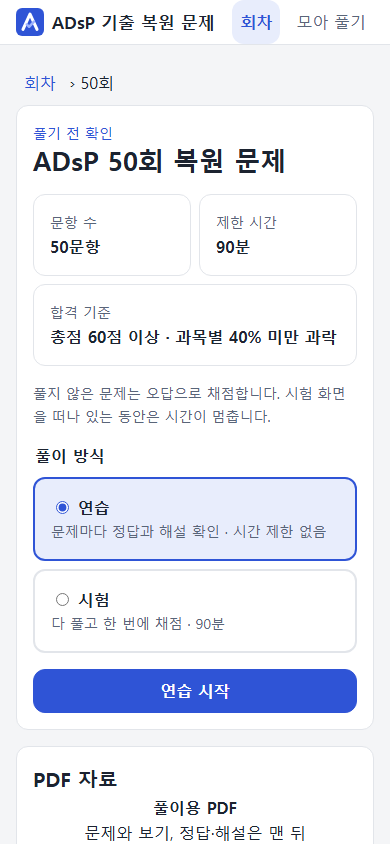
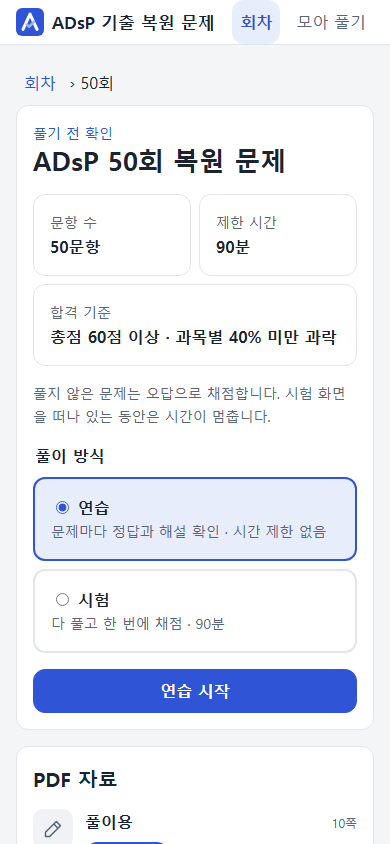
PDF 자료 화면 다시 짜기 (#26)
- 과목별 공부 자료 / 회차별 문제지 탭과 카드형 배치
- 종류별 아이콘, 눈에 띄는 보기 단추, 글자 링크 내려받기, 쪽수 표시
- 쉬운 설명을 핵심 요약으로
- README와 화면 이미지 갱신

Changed region(s): [[0.2154, 0.9242, 0.8, 1.0], [0.0923, 0.955, 0.1538, 1.0], [0.8615, 0.955, 0.9231, 0.9858]]

diff --git a/src/pages/DownloadsPage.tsx b/src/pages/DownloadsPage.tsx
@@ -1,20 +1,51 @@
+import { useSearchParams } from 'react-router';
+import type { CSSProperties } from 'react';
+import type { SubjectDownload } from '../data/loadDownloads';
 import { useDownloads } from '../components/DownloadsContext';
-import { DownloadLink, downloadTypes, downloadLabels, downloadDescriptions, PdfActions, subjectTypes, subjectLabels, subjectDescriptions } from '../components/DownloadLinks';
+import { DownloadLink, downloadTypes, downloadLabels, PdfItem, subjectTypes, subjectLabels } from '../components/DownloadLinks';
 import { LoadingState, type PageProps } from '../components/LoadingState';
+
+function SubjectCards({ subjects }: { subjects: SubjectDownload[] }) {
+  const whole = subjects.filter(s => s.chapter === undefined).sort((a, b) => a.subject - b.subject);
+  const chapterSubjects = [...new Set(subjects.filter(s => s.chapter !== undefined).map(s => s.subject))].sort((a, b) => a - b);
+  const groups = [whole, ...chapterSubjects.map(id => subjects.filter(s => s.subject === id && s.chapter !== undefined).sort((a, b) => a.chapter! - b.chapter!))].filter(g => g.length);
+  return groups.map(group => <section className="pdf-section" key={group[0].id}>
+    <h2>{group[0].chapter === undefined ? group.map(s => `${s.subject}과목`).join(' · ') : `${group[0].subject}과목`}{group[0].chapter !== undefined && <small>{group[0].subjectName} · {group.length}개 장</small>}</h2>
+    <ul className="download-list" style={{ '--pdf-columns': Math.min(3, group.length) } as CSSProperties}>{group.map(subject => {
+      const name = `${subject.subject}과목${subject.chapter === undefined ? '' : ` ${subject.chapter}장`}`;
+      return <li className="overview-panel pdf-card" key={subject.id}><header><h3>{subject.chapter === undefined ? `${subject.subject}과목` : `${subject.chapter}장`}</h3><span>{subject.name}</span></header>
+        {subjectTypes.map(type => subject[type] && <PdfItem key={type} kind={type} label={subjectLabels[type]} file={subject[type]} name={`${name} ${subjectLabels[type]}`} filename={`ADsP_${name.replace(/\s/g, '_')}_${subjectLabels[type].replace(/\s/g, '')}.pdf`} questionCount={type === 'solutions' ? subject.questionCount : undefined} />)}</li>;
+    })}</ul>
+  </section>);
+}
 export function DownloadsPage({ state, retry }: PageProps) {
   const downloads = useDownloads();
+  const [params, setParams] = useSearchParams();
   const subjects = downloads.state.status === 'success' ? downloads.state.data.subjects ?? [] : [];
+  const rounds = !subjects.length || params.get('tab') === 'rounds';
+  function select(rounds: boolean) {
+    const next = new URLSearchParams(params);
+    if (rounds) next.set('tab', 'rounds'); else next.delete('tab');
+    setParams(next);
+  }
   return <><h1 className="page-title">PDF 자료</h1><p className="page-lead">화면에서 바로 보거나 내려받아 인쇄하세요. 복원 문제라 실제 시험과 다를 수 있습니다.</p>
     {downloads.state.status === 'error' ? <div role="alert" className="state-panel"><p>PDF 목록을 불러오지 못했습니다.</p><button onClick={downloads.retry}>다시 시도</button></div>
       : downloads.state.status === 'loading' ? <p role="status" className="state-panel">PDF 목록을 불러오는 중입니다.</p>
       : <>
-      {!!subjects.length && <section><h2>과목별 공부 자료</h2><div className="download-descriptions">{subjectTypes.map(type => <p key={type}><strong>{subjectLabels[type]}</strong>: {subjectDescriptions[type]}</p>)}</div><ul className="download-list">{subjects.map(subject => <li className="overview-panel download-row" key={subject.id}><div><h3>{subject.label}</h3><span>{subject.name}</span></div><div className="download-actions">{subjectTypes.map(type => subject[type] && <div className="pdf-group" key={type}><strong>{subjectLabels[type]}{type === 'solutions' && ` · ${subject.questionCount}문항`}</strong><PdfActions file={subject[type]} name={`${subject.label} ${subjectLabels[type]}`} filename={`ADsP_${subject.label.replace(/\s+/g, '_')}_${subjectLabels[type].replace(/\s/g, '')}.pdf`} /></div>)}</div></li>)}</ul></section>}
-      <section><h2>회차별 문제지</h2><div className="download-descriptions">{downloadTypes.map(type => <p key={type}><strong>{downloadLabels[type]}</strong>: {downloadDescriptions[type]}</p>)}</div>
-      {state.status !== 'success' ? <LoadingState state={state} retry={retry} />
-      : state.rounds.length === 0 ? <p role="status" className="state-panel">아직 등록된 회차가 없습니다.</p>
-      : <ul className="download-list">{[...state.rounds].sort((a, b) => b.round - a.round).map(round => <li className="overview-panel download-row" key={round.round}><div><h3>{round.round}회</h3><span>{round.year}년</span></div><div className="download-actions">{downloadTypes.map(type => {
-        const file = downloads.state.status === 'success' ? downloads.state.data.rounds[round.round]?.[type] : undefined;
-        return file ? <DownloadLink key={type} round={round.round} type={type} file={file} /> : <span key={type}>{downloadLabels[type]} PDF · 준비 중</span>;
-      })}</div></li>)}</ul>}</section></>}
+        {!!subjects.length && <div role="tablist" aria-label="PDF 자료 종류" className="pdf-tabs">{['과목별 공부 자료', '회차별 문제지'].map((label, i) => <button key={label} role="tab" id={`pdf-tab-${i}`} aria-controls={`pdf-panel-${i}`} aria-selected={rounds === !!i} tabIndex={rounds === !!i ? 0 : -1} onClick={() => select(!!i)} onKeyDown={event => {
+          if (event.key === 'ArrowLeft' || event.key === 'ArrowRight') {
+            event.preventDefault(); select(!rounds);
+            document.getElementById(`pdf-tab-${i === 0 ? 1 : 0}`)?.focus();
+          }
+        }}>{label}</button>)}</div>}
+        <div role={subjects.length ? 'tabpanel' : undefined} id={`pdf-panel-${rounds ? 1 : 0}`} aria-labelledby={subjects.length ? `pdf-tab-${rounds ? 1 : 0}` : undefined} tabIndex={subjects.length ? 0 : undefined}>
+          {!rounds ? <SubjectCards subjects={subjects} /> : <section className="pdf-section"><h2 className={subjects.length ? 'sr-only' : undefined}>회차별 문제지</h2><p>풀이용은 정답·해설이 맨 뒤에, 해설용은 문제마다 정답과 자세한 풀이가 있습니다.</p>
+            {state.status !== 'success' ? <LoadingState state={state} retry={retry} /> : state.rounds.length === 0 ? <p role="status" className="state-panel">아직 등록된 회차가 없습니다.</p> : <ul className="download-list">{[...state.rounds].sort((a, b) => b.round - a.round).map(round => <li className="overview-panel pdf-card" key={round.round}><header><h3>{round.round}회</h3><span>{round.year}년</span></header>{downloadTypes.map(type => {
+              const file = downloads.state.status === 'success' ? downloads.state.data.rounds[round.round]?.[type] : undefined;
+              return file ? <DownloadLink key={type} round={round.round} type={type} file={file} /> : <div className="pdf-pending" key={type}>{downloadLabels[type]} PDF · 준비 중</div>;
+            })}</li>)}</ul>}
+          </section>}
+        </div>
+      </>}
   </>;
 }

diff --git a/src/pages/DownloadsPage.test.tsx b/src/pages/DownloadsPage.test.tsx
@@ -2,7 +2,7 @@ import '../test/asyncQueries';
 import { cleanup, fireEvent, render, screen, within, waitFor } from '@testing-library/react';
 import { afterEach, beforeEach, expect, test, vi } from 'vitest';
 import App from '../App';
-const files = { type1: { file: 'pdf/900-type1.pdf', bytes: 286627 }, type2: { file: 'pdf/900-type2.pdf', bytes: 1048576 } };
+const files = { type1: { file: 'pdf/900-type1.pdf', bytes: 286627, pages: 23 }, type2: { file: 'pdf/900-type2.pdf', bytes: 1048576, pages: 23 } };
 let downloads: unknown;
 const fetchMock = vi.fn();
 const round = { formatVersion: 1, round: 900, title: '개발용 표본', timeLimitMinutes: 90, subjects: [1, 2, 3].map(id => ({ id, name: `표본 ${id}` })), questions: [{ number: 1, subject: 1, question: '개발용 표본 문제', choices: ['가', '나', '다', '라'], answer: 1, explanation: '표본 해설', stimulus: [] }] };
@@ -71,21 +71,21 @@ test('failed list hides PDF links while keeping home and info; download screen r
   expect(downloadCalls()).toHaveLength(2);
 });
 
-const subject = { id: '3-2', label: '3과목 2장', name: '개발용 표본 통계', questionCount: 94,
-  summary: { file: 'pdf/subject-3-2-summary.pdf', bytes: 1048576 }, solutions: { file: 'pdf/subject-3-2-solutions.pdf', bytes: 2048 } };
+const subject = { id: '3-2', subject: 3, subjectName: '데이터 분석', chapter: 2, name: '개발용 표본 통계', questionCount: 94,
+  summary: { file: 'pdf/subject-3-2-summary.pdf', bytes: 1048576, pages: 23 }, solutions: { file: 'pdf/subject-3-2-solutions.pdf', bytes: 2048, pages: 23 } };
 test('subject and round groups have viewing and download actions', async () => {
   downloads = { formatVersion: 1, rounds: { 900: files }, subjects: [subject] }; render(<App />);
-  await screen.findByRole('heading', { name: '과목별 공부 자료' });
-  expect(screen.getByRole('heading', { name: '회차별 문제지' })).toBeTruthy();
-  expect(screen.getByText('풀이 모음 · 94문항')).toBeTruthy();
+  await screen.findByRole('tab', { name: '과목별 공부 자료' });
+  expect(screen.getByRole('tab', { name: '과목별 공부 자료' }).getAttribute('aria-selected')).toBe('true');
+  expect(screen.getByText('94문항 · 23쪽')).toBeTruthy();
   for (const [label, file, filename, size] of [
-    ['쉬운 설명', subject.summary.file, 'ADsP_3과목_2장_쉬운설명.pdf', '1.0 MB'],
+    ['핵심 요약', subject.summary.file, 'ADsP_3과목_2장_핵심요약.pdf', '1.0 MB'],
     ['풀이 모음', subject.solutions.file, 'ADsP_3과목_2장_풀이모음.pdf', '2 KB'],
   ]) {
     const view = screen.getByRole('link', { name: `3과목 2장 ${label} PDF 새 탭에서 보기` });
     expect(view.getAttribute('href')).toBe(`${import.meta.env.BASE_URL}${file}`);
     expect(view.getAttribute('target')).toBe('_blank'); expect(view.getAttribute('rel')).toBe('noopener');
-    expect(view.querySelector('span')?.getAttribute('aria-hidden')).toBe('true');
+    expect(view.querySelector('svg')?.getAttribute('aria-hidden')).toBe('true');
     const save = screen.getByRole('link', { name: `3과목 2장 ${label} PDF 내려받기, ${size}` });
     expect(save.getAttribute('href')).toBe(view.getAttribute('href')); expect(save.getAttribute('download')).toBe(filename);
   }
@@ -99,4 +99,36 @@ test.each([undefined, []])('absent or empty subjects omit their group', async su
   downloads = { formatVersion: 1, rounds: { 900: files }, ...(subjects ? { subjects } : {}) }; render(<App />);
   await screen.findByRole('heading', { name: '회차별 문제지' });
   expect(screen.queryByRole('heading', { name: '과목별 공부 자료' })).toBeNull();
+  expect(screen.queryByRole('tablist')).toBeNull();
+});
+
+test('tabs use address, selection and arrow keys with focus', async () => {
+  downloads = { formatVersion: 1, rounds: { 900: files }, subjects: [subject] };
+  window.location.hash = '#/downloads?tab=rounds'; render(<App />);
+  const rounds = await screen.findByRole('tab', { name: '회차별 문제지' });
+  const subjects = screen.getByRole('tab', { name: '과목별 공부 자료' });
+  expect(rounds.getAttribute('aria-selected')).toBe('true');
+  expect(screen.getByRole('tabpanel').getAttribute('aria-labelledby')).toBe(rounds.id);
+  fireEvent.keyDown(rounds, { key: 'ArrowLeft' });
+  await waitFor(() => expect(subjects.getAttribute('aria-selected')).toBe('true'));
+  expect(document.activeElement).toBe(subjects);
+  expect(window.location.hash).toBe('#/downloads');
+  expect(subjects.getAttribute('tabindex')).toBe('0');
+  expect(rounds.getAttribute('tabindex')).toBe('-1');
+  fireEvent.keyDown(subjects, { key: 'ArrowRight' });
+  await waitFor(() => expect(window.location.hash).toBe('#/downloads?tab=rounds'));
+  expect(document.activeElement).toBe(rounds);
+  fireEvent.click(subjects);
+  await waitFor(() => expect(window.location.hash).toBe('#/downloads'));
+});
+
+test('whole subjects and chapters have grouped titles and card names', async () => {
+  const whole = [1, 2].map(n => ({ id: `${n}`, subject: n, subjectName: `표본 ${n}`, name: `표본 ${n}`, questionCount: 60, summary: subject.summary, solutions: subject.solutions }));
+  const chapters = [1, 2, 3].map(n => ({ ...subject, id: `3-${n}`, chapter: n, name: `표본 장 ${n}` }));
+  downloads = { formatVersion: 1, rounds: {}, subjects: [...chapters.reverse(), ...whole.reverse()] }; render(<App />);
+  await screen.findByRole('heading', { name: '1과목 · 2과목', level: 2 });
+  expect(screen.getByRole('heading', { name: /^3과목\s*데이터 분석 · 3개 장$/, level: 2 })).toBeTruthy();
+  expect(screen.getAllByRole('heading', { level: 3 }).map(h => h.textContent)).toEqual(['1과목', '2과목', '1장', '2장', '3장']);
+  expect(screen.getAllByText('60문항 · 23쪽')).toHaveLength(2);
+  expect(screen.getAllByText('23쪽')).toHaveLength(5);
 });

diff --git a/src/styles/main.css b/src/styles/main.css
@@ -326,27 +326,42 @@ button:disabled { cursor: default; }
 @media (max-width: 479px) { .exam-nav { display: grid; grid-template-columns: repeat(2, minmax(0, 1fr)); } .exam-nav > :last-child { grid-column: 1 / -1; } }
 .question-report { display: inline-block; font-size: 0.8125rem; color: #526176; }
 .question-report:hover { text-decoration-thickness: 2px; }
-.download-list { list-style: none; padding: 0; display: grid; gap: 1rem; }
-.download-row { display: flex; justify-content: space-between; align-items: center; gap: 1rem; }
-.download-row h2 { margin: 0 0 .25rem; }
-.download-actions { display: flex; align-items: center; gap: 1rem; flex-wrap: wrap; }
-.download-actions small { margin-left: .5rem; }
-.download-actions p { margin-bottom: 0; }
-.round-downloads .download-actions { display: grid; grid-template-columns: repeat(2, minmax(0, 1fr)); align-items: start; }
-.round-downloads .download-actions > div { min-width: 0; text-align: center; }
-.round-downloads .download-actions > div:only-child { grid-column: 1 / -1; }
-.pdf-group { min-width: 0; display: grid; gap: .5rem; }
-.pdf-buttons { display: flex; gap: .5rem; flex-wrap: wrap; min-width: 0; }
-.pdf-buttons .button { max-width: 100%; width: auto; flex-wrap: wrap; }
-.round-downloads .pdf-buttons { justify-content: center; }
-.download-row h3 { margin: 0 0 .25rem; }
+.sr-only { position: absolute; width: 1px; height: 1px; padding: 0; margin: -1px; overflow: hidden; clip-path: inset(50%); white-space: nowrap; border: 0; }
+.download-list { list-style: none; padding: 0; display: grid; gap: 1rem; grid-template-columns: repeat(var(--pdf-columns, 3), minmax(0, 1fr)); }
+.pdf-section { margin-top: 1.75rem; }
+.pdf-section h2 { font-size: 1.25rem; }
+.pdf-section h2 small { margin-left: .75rem; font-size: .875rem; font-weight: normal; color: var(--muted); }
+.pdf-card { min-width: 0; padding: 1.25rem; }
+.pdf-card header { display: flex; gap: .5rem; align-items: baseline; flex-wrap: wrap; margin-bottom: .5rem; }
+.pdf-card header h3 { margin: 0; font-size: 1.25rem; }
+.pdf-card header span, .pdf-heading small { color: var(--muted); }
+.pdf-item { display: flex; gap: .75rem; padding: .875rem 0; min-width: 0; }
+.pdf-item + .pdf-item, .pdf-pending + .pdf-pending, .pdf-item + .pdf-pending { border-top: 1px solid var(--border); }
+.pdf-icon { display: grid; place-items: center; width: 40px; height: 40px; flex: 0 0 40px; border-radius: 10px; background: #e8edff; color: #3155db; }
+.pdf-icon-summary { background: #fff1c2; color: #866000; }
+.pdf-icon-type1 { background: #f0f2f5; color: #526176; }
+.pdf-icon svg { width: 20px; height: 20px; }
+.pdf-content { flex: 1; min-width: 0; }
+.pdf-heading { display: flex; justify-content: space-between; align-items: baseline; gap: .5rem; flex-wrap: wrap; margin-bottom: .5rem; }
+.pdf-heading small { font-size: .75rem; }
+.pdf-buttons { display: flex; align-items: center; gap: .875rem; flex-wrap: wrap; }
+.pdf-buttons svg { width: 16px; height: 16px; flex-shrink: 0; }
+.pdf-buttons .button { width: auto; min-height: 42px; padding: .5rem .875rem; gap: .4rem; }
+.pdf-save { display: inline-flex; align-items: center; gap: .35rem; color: var(--accent); text-decoration: none; min-height: 44px; font-size: .875rem; flex-wrap: wrap; }
+.pdf-save:hover, .pdf-save:focus { text-decoration: underline; }
+.pdf-save small { color: var(--muted); font-size: .75rem; }
+.pdf-pending { padding: 1.5rem 0; color: var(--muted); }
+.pdf-tabs { display: inline-flex; padding: 4px; border-radius: 12px; background: #e8ebf1; max-width: 100%; }
+.pdf-tabs button { background: transparent; border: 0; color: #526176; padding: .65rem 1rem; }
+.pdf-tabs [aria-selected="true"] { background: white; color: #172b46; box-shadow: 0 1px 3px #0002; }
+.round-downloads .download-actions { display: grid; grid-template-columns: repeat(2, minmax(0, 1fr)); gap: 1rem; }
+.round-downloads .pdf-item { border: 0; }
+@media (min-width: 600px) and (max-width: 899px) { .download-list { grid-template-columns: repeat(2, minmax(0, 1fr)); } }
+@media (max-width: 599px) { .download-list, .round-downloads .download-actions { grid-template-columns: minmax(0, 1fr); } .round-downloads .pdf-item + .pdf-item { border-top: 1px solid var(--border); } }
 .subject-pdf-link { font-size: var(--font-small); white-space: nowrap; }
 .round-downloads { margin-top: var(--space-medium); }
 .home-download-link { margin: 1.5rem 0; }
 @media (max-width: 767px) {
   .service-bar nav .pdf-nav { display: none; }
   .download-row { align-items: stretch; flex-direction: column; }
-}
-@media (max-width: 639px) {
-  .round-downloads .download-actions { grid-template-columns: minmax(0, 1fr); }
 }

diff --git a/src/components/DownloadLinks.tsx b/src/components/DownloadLinks.tsx
@@ -4,22 +4,29 @@ export const downloadTypes = ['type1', 'type2'] as const;
 export const downloadLabels = { type1: '풀이용', type2: '해설용' };
 export const downloadDescriptions = { type1: '문제와 보기, 정답·해설은 맨 뒤', type2: '문제마다 정답과 자세한 풀이' };
 export const subjectTypes = ['summary', 'solutions'] as const;
-export const subjectLabels = { summary: '쉬운 설명', solutions: '풀이 모음' };
+export const subjectLabels = { summary: '핵심 요약', solutions: '풀이 모음' };
 export const subjectDescriptions = { summary: '개념을 쉽게 풀어 쓴 핵심 정리', solutions: '기출 문제를 주제 순서로 모은 자세한 풀이, 문항마다 출처 회차 표시' };
 export function formatFileSize(bytes: number) {
   return bytes >= 1024 * 1024 ? `${(bytes / (1024 * 1024)).toFixed(1)} MB` : `${Math.round(bytes / 1024)} KB`;
 }
 export function DownloadLink({ round, type, file }: { round: number; type: DownloadType; file: DownloadFile }) {
   const label = downloadLabels[type];
-  return <div className="pdf-group"><strong>{label} PDF</strong><PdfActions file={file} name={`${round}회 ${label}`} filename={`ADsP_${round}회_${label}.pdf`} /></div>;
+  return <PdfItem kind={type} label={label} file={file} name={`${round}회 ${label}`} filename={`ADsP_${round}회_${label}.pdf`} />;
+}
+export function PdfIcon({ kind }: { kind: 'open' | 'download' | 'summary' | 'solutions' | DownloadType }) {
+  const paths = { open: 'M14 3h7v7M21 3 10 14M10 3H3v18h18v-7', download: 'M12 3v12m-5-5 5 5 5-5M3 17v4h18v-4', summary: 'M5 3h15v18H5a2 2 0 0 1-2-2V5a2 2 0 0 1 2-2Zm0 14h15M8 7h8M8 11h5', solutions: 'm3 5 2 2 3-4M11 5h10M3 12l2 2 3-4M11 12h10M3 19l2 2 3-4M11 19h10', type1: 'm3 16 13-13 5 5L8 21H3v-5Zm10-10 5 5', type2: 'm3 5 2 2 3-4M11 5h10M3 12l2 2 3-4M11 12h10M3 19l2 2 3-4M11 19h10' };
+  return <svg aria-hidden="true" viewBox="0 0 24 24" fill="none" stroke="currentColor" strokeWidth="1.7" strokeLinecap="round" strokeLinejoin="round"><path d={paths[kind]} /></svg>;
+}
+export function PdfItem({ kind, label, file, name, filename, questionCount }: { kind: 'summary' | 'solutions' | DownloadType; label: string; file: DownloadFile; name: string; filename: string; questionCount?: number }) {
+  return <div className="pdf-item"><span className={`pdf-icon pdf-icon-${kind}`}><PdfIcon kind={kind} /></span><div className="pdf-content"><div className="pdf-heading"><strong>{label}</strong><small>{questionCount !== undefined && `${questionCount}문항 · `}{file.pages}쪽</small></div><PdfActions file={file} name={name} filename={filename} /></div></div>;
 }
 export function PdfActions({ file, name, filename }: { file: DownloadFile; name: string; filename: string }) {
   const href = `${import.meta.env.BASE_URL}${file.file}`, size = formatFileSize(file.bytes);
-  return <div className="pdf-buttons"><a className="button secondary" href={href} target="_blank" rel="noopener" aria-label={`${name} PDF 새 탭에서 보기`}>보기 <span aria-hidden="true">↗</span></a><a className="button secondary" href={href} download={filename} aria-label={`${name} PDF 내려받기, ${size}`}>내려받기 <small>{size}</small></a></div>;
+  return <div className="pdf-buttons"><a className="button" href={href} target="_blank" rel="noopener" aria-label={`${name} PDF 새 탭에서 보기`}><PdfIcon kind="open" />보기</a><a className="pdf-save" href={href} download={filename} aria-label={`${name} PDF 내려받기, ${size}`}><PdfIcon kind="download" />내려받기 <small>{size}</small></a></div>;
 }
 export function RoundDownloads({ round }: { round: number }) {
   const { state } = useDownloads();
   const files = state.status === 'success' ? state.data.rounds[round] : undefined;
   if (!files || !downloadTypes.some(type => files[type])) return null;
-  return <section className="overview-panel round-downloads"><h2>PDF 자료</h2><div className="download-actions">{downloadTypes.map(type => files[type] && <div key={type}><strong>{downloadLabels[type]} PDF</strong><p>{downloadDescriptions[type]}</p><PdfActions file={files[type]} name={`${round}회 ${downloadLabels[type]}`} filename={`ADsP_${round}회_${downloadLabels[type]}.pdf`} /></div>)}</div></section>;
+  return <section className="overview-panel round-downloads"><h2>PDF 자료</h2><div className="download-actions">{downloadTypes.map(type => files[type] && <DownloadLink key={type} round={round} type={type} file={files[type]} />)}</div></section>;
 }

diff --git a/src/data/loadDownloads.test.ts b/src/data/loadDownloads.test.ts
@@ -1,19 +1,31 @@
 import { afterEach, expect, test, vi } from 'vitest';
 import { isDownloadsData, loadDownloads } from './loadDownloads';
 import { formatFileSize } from '../components/DownloadLinks';
-const sample = { formatVersion: 1, rounds: { 900: { type1: { file: 'pdf/900-type1.pdf', bytes: 1024 } } } };
-const subject = { id: '3-2', label: '3과목 2장', name: '표본 통계', questionCount: 94, summary: sample.rounds[900].type1 };
+const sample = { formatVersion: 1, rounds: { 900: { type1: { file: 'pdf/900-type1.pdf', bytes: 1024, pages: 23 } } } };
+const subject = { id: '3-2', subject: 3, subjectName: 'Sample', chapter: 2, name: '표본 통계', questionCount: 94, summary: sample.rounds[900].type1 };
 test('accepts optional subjects and either PDF kind', () => {
+  expect(isDownloadsData({ ...sample, subjects: [{ ...subject, id: '3', chapter: undefined }] })).toBe(false);
+  const { chapter: _chapter, ...whole } = subject;
+  expect(isDownloadsData({ ...sample, subjects: [{ ...whole, id: '3' }] })).toBe(true);
   expect(isDownloadsData({ ...sample, subjects: [] })).toBe(true);
   expect(isDownloadsData({ ...sample, subjects: [subject] })).toBe(true);
   expect(isDownloadsData({ ...sample, subjects: [{ ...subject, solutions: subject.summary }] })).toBe(true);
+});
+
+test.each([undefined, 0, 1.5, -1, '23'])('rejects invalid pages in round and subject files: %s', pages => {
+  const file = { ...sample.rounds[900].type1, pages };
+  expect(isDownloadsData({ ...sample, rounds: { 900: { type1: file } } })).toBe(false);
+  expect(isDownloadsData({ ...sample, subjects: [{ ...subject, summary: file }] })).toBe(false);
+});
+test.each([{ subject: 2 }, { subject: '3' }, { chapter: 1 }, { chapter: undefined }, { subjectName: '' }, { subjectName: ' ' }, { id: '3', chapter: 2 }, { label: 'old' }])('rejects inconsistent subject metadata %j', changes => {
+  expect(isDownloadsData({ ...sample, subjects: [{ ...subject, ...changes }] })).toBe(false);
 });
 test.each([
   {}, [null], [{ ...subject, id: '0' }], [subject, subject], [{ ...subject, label: ' ' }],
   [{ ...subject, name: '' }], [{ ...subject, questionCount: 0 }], [{ ...subject, questionCount: 1.5 }],
   [{ ...subject, summary: undefined }], [{ ...subject, other: true }],
-  [{ ...subject, summary: { file: '../outside.pdf', bytes: 1 } }],
-  [{ id: '1', label: '표본', name: '표본', questionCount: 1 }],
+  [{ ...subject, summary: { file: '../outside.pdf', bytes: 1, pages: 23 } }],
+  [{ id: '1', subject: 1, subjectName: 'Sample', name: '표본', questionCount: 1 }],
 ])('rejects malformed subjects %j', subjects => expect(isDownloadsData({ ...sample, subjects })).toBe(false));
 afterEach(() => vi.unstubAllGlobals());
 test('loads with base URL, no-cache and signal', async () => {
@@ -22,7 +34,7 @@ test('loads with base URL, no-cache and signal', async () => {
   expect(await loadDownloads(signal)).toEqual(sample);
   expect(fetch).toHaveBeenCalledWith(`${import.meta.env.BASE_URL}data/downloads.json`, { cache: 'no-cache', signal });
 });
-test.each([null, {}, { ...sample, formatVersion: 2 }, { formatVersion: 1, rounds: { 900: { other: {} } } }, { formatVersion: 1, rounds: { 900: { type1: { file: '../a.pdf', bytes: 1 } } } }])('rejects invalid data %j', async value => {
+test.each([null, {}, { ...sample, formatVersion: 2 }, { formatVersion: 1, rounds: { 900: { other: {} } } }, { formatVersion: 1, rounds: { 900: { type1: { file: '../a.pdf', bytes: 1, pages: 23 } } } }])('rejects invalid data %j', async value => {
   expect(isDownloadsData(value)).toBe(false);
   vi.stubGlobal('fetch', vi.fn().mockResolvedValue({ ok: true, json: async () => value }));
   await expect(loadDownloads()).rejects.toThrow();

diff --git a/src/data/loadDownloads.ts b/src/data/loadDownloads.ts
@@ -1,6 +1,6 @@
 export type DownloadType = 'type1' | 'type2';
-export type DownloadFile = { file: string; bytes: number };
-export type SubjectDownload = { id: string; label: string; name: string; questionCount: number; summary?: DownloadFile; solutions?: DownloadFile };
+export type DownloadFile = { file: string; bytes: number; pages: number };
+export type SubjectDownload = { id: string; subject: number; subjectName: string; chapter?: number; name: string; questionCount: number; summary?: DownloadFile; solutions?: DownloadFile };
 export type DownloadsData = { formatVersion: 1; rounds: Record<string, Partial<Record<DownloadType, DownloadFile>>>; subjects?: SubjectDownload[] };
 const object = (v: unknown): v is Record<string, unknown> => !!v && typeof v === 'object' && !Array.isArray(v);
 const keys = (v: Record<string, unknown>, allowed: string[]) => Object.keys(v).every(k => allowed.includes(k));
@@ -10,9 +10,10 @@ export function isDownloadsData(v: unknown): v is DownloadsData {
     if (!Array.isArray(v.subjects)) return false;
     const ids = new Set<string>();
     for (const s of v.subjects) {
-      if (!object(s) || !keys(s, ['id', 'label', 'name', 'questionCount', 'summary', 'solutions'])
+      if (!object(s) || !keys(s, ['id', 'subject', 'subjectName', 'chapter', 'name', 'questionCount', 'summary', 'solutions'])
         || typeof s.id !== 'string' || !/^[1-9](-[1-9])?$/.test(s.id) || ids.has(s.id)
-        || typeof s.label !== 'string' || !s.label.trim() || typeof s.name !== 'string' || !s.name.trim()
+        || s.subject !== Number(s.id[0]) || typeof s.subjectName !== 'string' || !s.subjectName.trim()
+        || (s.id.includes('-') ? s.chapter !== Number(s.id[2]) : 'chapter' in s) || typeof s.name !== 'string' || !s.name.trim()
         || !Number.isSafeInteger(s.questionCount) || (s.questionCount as number) <= 0
         || !('summary' in s || 'solutions' in s)
         || ['summary', 'solutions'].some(k => k in s && !isDownloadFile(s[k]))) return false;
@@ -20,13 +21,12 @@ export function isDownloadsData(v: unknown): v is DownloadsData {
     }
   }
   return Object.entries(v.rounds).every(([round, files]) => /^[1-9]\d*$/.test(round) && Number.isSafeInteger(Number(round))
-    && object(files) && keys(files, ['type1', 'type2']) && Object.values(files).every(f => object(f)
-      && keys(f, ['file', 'bytes']) && typeof f.file === 'string' && /^pdf\/[A-Za-z0-9_-]+\.pdf$/.test(f.file)
-      && Number.isSafeInteger(f.bytes) && (f.bytes as number) > 0));
+    && object(files) && keys(files, ['type1', 'type2']) && Object.values(files).every(isDownloadFile));
 }
 function isDownloadFile(f: unknown): f is DownloadFile {
-  return object(f) && keys(f, ['file', 'bytes']) && typeof f.file === 'string'
-    && /^pdf\/[A-Za-z0-9_-]+\.pdf$/.test(f.file) && Number.isSafeInteger(f.bytes) && (f.bytes as number) > 0;
+  return object(f) && keys(f, ['file', 'bytes', 'pages']) && typeof f.file === 'string'
+    && /^pdf\/[A-Za-z0-9_-]+\.pdf$/.test(f.file) && Number.isSafeInteger(f.bytes) && (f.bytes as number) > 0
+    && Number.isSafeInteger(f.pages) && (f.pages as number) > 0;
 }
 export async function loadDownloads(signal?: AbortSignal): Promise<DownloadsData> {
   const response = await fetch(`${import.meta.env.BASE_URL}data/downloads.json`, { signal, cache: 'no-cache' });

diff --git a/src/pages/SetsPage.test.tsx b/src/pages/SetsPage.test.tsx
@@ -172,7 +172,7 @@ test('unavailable persistence keeps progress through navigation and displays not
 
 test.each([true, false])('subject PDF link is conditional: %s', async present => {
   fetchMock.mockImplementation(async (url: string) => ({ ok: true, json: async () => url.endsWith('downloads.json')
-    ? { formatVersion: 1, rounds: {}, subjects: present ? [{ id: '1', label: '1과목', name: '개발용 표본', questionCount: 1, summary: { file: 'pdf/sample.pdf', bytes: 10 } }] : [] }
+    ? { formatVersion: 1, rounds: {}, subjects: present ? [{ id: '1', subject: 1, subjectName: 'Sample', name: '개발용 표본', questionCount: 1, summary: { file: 'pdf/sample.pdf', bytes: 10, pages: 23 } }] : [] }
     : url.endsWith('rounds.json') ? summaries : url.endsWith('topics.json') ? topics : rounds.find(round => url.endsWith(`${round.round}.json`)) }));
   await ready();
   const link = screen.queryByRole('link', { name: '과목별 PDF 자료 ›' });
